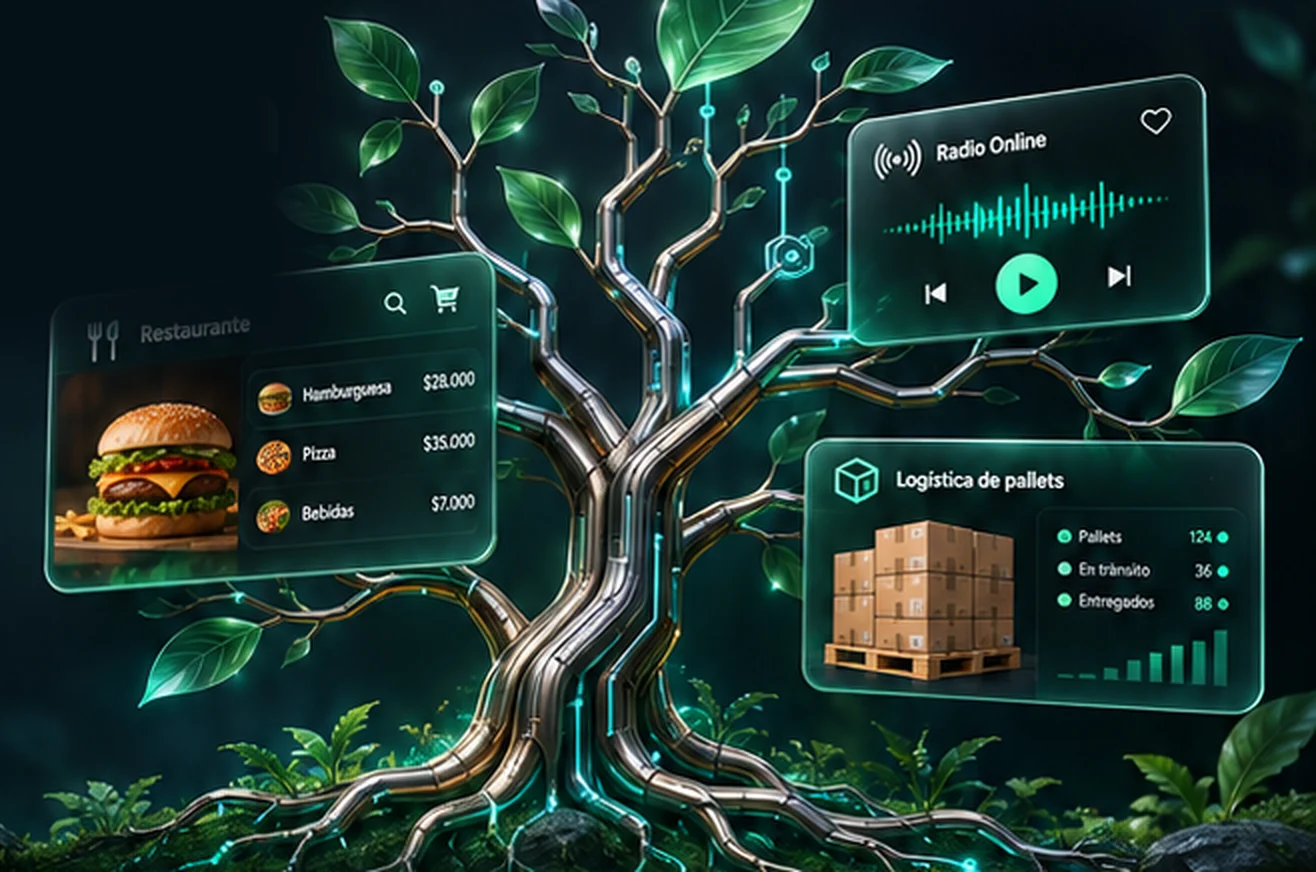
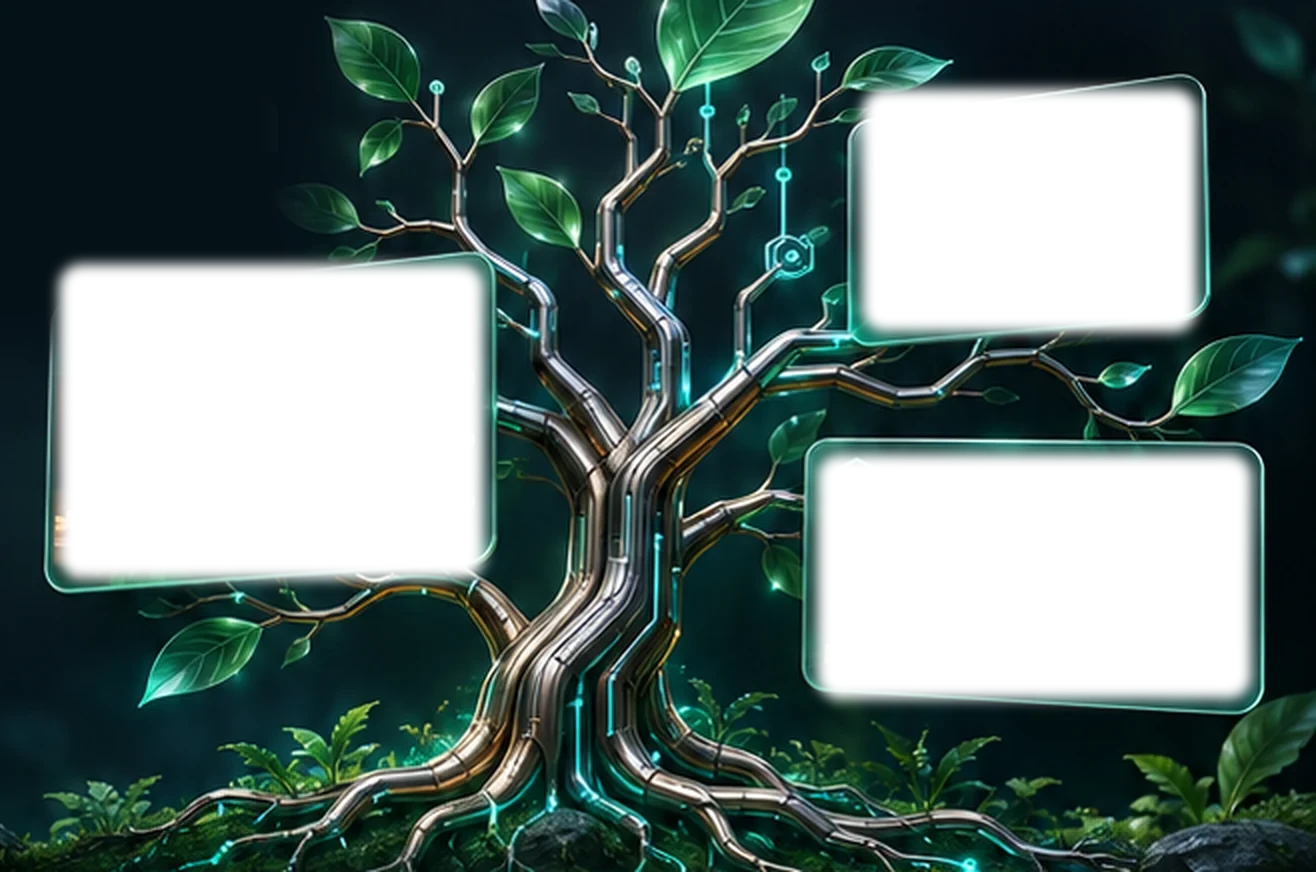
feat(home): 3D floating footer sphere, clickable footer links and animated hero cards

diff --git a/src/components/home/Home.module.css b/src/components/home/Home.module.css
@@ -1,8 +1,4 @@
 .hero { position: relative; padding-top: 90px; overflow: clip; }
-.heroStage { position: relative; min-height: 650px; display: flex; flex-direction: column; justify-content: space-between; isolation: isolate; }
-.heroArt { position: absolute; z-index: -1; width: 78%; height: auto; right: -60px; top: -45px; mask-image: radial-gradient(ellipse 65% 65% at 57% 50%, #000 50%, transparent 100%); }
-.heroCopy { position: relative; max-width: 510px; padding-top: 35px; }
-.heroCopy h1 { color: #fff; font-size: clamp(2.7rem, 5.2vw, 4.8rem); line-height: 1.02; letter-spacing: -.035em; font-weight: 750; }
 .heroCopy p { max-width: 350px; font-size: 1.05rem; line-height: 1.45; color: #d3e4de; margin-top: 24px; }
 .heroActions { display: flex; flex-direction: column; align-items: flex-start; gap: 12px; margin-top: 25px; }
 .explore { display: flex; align-items: center; gap: 48px; padding: 35px 0 30px; }
@@ -33,18 +29,14 @@
 .laptopBase { display: block; height: 10px; width: 116%; margin-left: -8%; border-radius: 2px 2px 50% 50%; background: linear-gradient(#94aaa8, #203e3b); box-shadow: 0 10px 16px #0009; }
 .closing { overflow: clip; position: relative; }
 .closingInner { position: relative; min-height: 590px; padding-top: 55px; isolation: isolate; }
-.closing h2 { position: relative; z-index: 2; font-size: clamp(2.5rem, 5vw, 4.6rem); font-weight: 750; letter-spacing: -.035em; line-height: 1.02; max-width: 650px; color: #fff; }
-.roots { position: absolute; z-index: -1; right: -70px; top: -25px; height: 650px; width: auto; mask-image: radial-gradient(ellipse 70% 65% at 55% 50%, #000 45%, transparent); }
-.path { position: absolute; left: 4%; width: 62%; height: 180px; top: 230px; filter: drop-shadow(0 0 8px #3ef0a8); }
-.contactPath { position: absolute; top: 300px; left: 16%; width: 43%; display: flex; justify-content: space-between; transform: rotate(-12deg); gap: 16px; }
+.closing h2 { position: relative; z-index: 2; pointer-events: none; font-size: clamp(2.5rem, 5vw, 4.6rem); font-weight: 750; letter-spacing: -.035em; line-height: 1.02; max-width: 650px; color: #fff; }
+.path { position: absolute; left: 4%; width: 68%; height: 180px; top: 230px; filter: drop-shadow(0 0 8px #3ef0a8); }
+.contactPath { position: absolute; z-index: 4; top: 300px; left: 16%; width: 43%; display: flex; justify-content: space-between; transform: rotate(-12deg); gap: 16px; }
 .contactPath a { display: inline-flex; gap: 8px; align-items: center; color: #fff; text-decoration: none; }
 .contactPath a:nth-child(2) { translate: 0 -22px; }
 .contactPath a:nth-child(3) { translate: 0 -36px; }
-.talkCircle { position: absolute; top: 168px; right: 6%; width: 230px; aspect-ratio: 1; display: flex; flex-direction: column; justify-content: center; align-items: center; gap: 12px; border: 2px solid #c9ffe9; border-radius: 50%; background: radial-gradient(circle at 40% 40%, #073d2e 20%, #00352b 55%, #21e9b3 100%); box-shadow: 0 0 35px #3ef0a899, inset 0 0 35px #3ef0a899; color: #fff; text-decoration: none; z-index: 3; }
-.talkCircle span { display: flex; align-items: center; font-size: 1.7rem; font-weight: 600; }
 .outline { position: absolute; bottom: 0; left: 2%; color: transparent; -webkit-text-stroke: 1px #6effbe88; font-size: clamp(5rem, 16vw, 14rem); font-weight: 650; line-height: 1; z-index: -1; }
-@media(max-width: 1060px) { .heroStage { min-height: 610px; } .heroArt { right: -100px; top: 10px; width: 90%; opacity: .7; } .heroCopy { max-width: 460px; } }
-@media(max-width: 760px) { .hero { padding-top: 95px; } .heroStage { min-height: 0; } .heroArt { position: relative; order: 2; top: auto; right: auto; width: 115%; margin: -20px -8% -25px; opacity: 1; } .heroCopy { max-width: 100%; padding-top: 10px; } .heroCopy h1 { max-width: 480px; } .heroCopy p { max-width: 450px; } .explore { order: 3; flex-direction: column; align-items: flex-start; gap: 14px; } .tabs { flex-wrap: wrap; border-radius: 22px; } .tabs button { padding: 7px 11px; } .stats { padding: 18px 8px; } .stats li { padding: 0 3vw; } .stats a { flex-direction: column; gap: 6px; font-size: .7rem; } .stats strong { font-size: 2rem; } .demoLayout { grid-template-columns: 1fr; gap: 24px; } .projects { grid-template-columns: 1fr; } .closingInner { min-height: 670px; } .closing h2 { font-size: 2.8rem; } .roots { top: 160px; right: -100px; height: 520px; } .talkCircle { top: 320px; right: 12%; width: 190px; } .contactPath { top: 260px; left: 5%; width: 85%; transform: none; flex-wrap: wrap; } .contactPath a:nth-child(n) { translate: none; font-size: .85rem; } .path { top: 260px; } .outline { font-size: 22vw; bottom: 35px; } }
+@media(max-width: 760px) { .hero { padding-top: 95px; } .heroCopy p { max-width: 450px; } .explore { flex-direction: column; align-items: flex-start; gap: 14px; } .tabs { flex-wrap: wrap; border-radius: 22px; } .tabs button { padding: 7px 11px; } .stats { padding: 18px 8px; } .stats li { padding: 0 3vw; } .stats a { flex-direction: column; gap: 6px; font-size: .7rem; } .stats strong { font-size: 2rem; } .demoLayout { grid-template-columns: 1fr; gap: 24px; } .projects { grid-template-columns: 1fr; } .closingInner { min-height: 670px; } .closing h2 { font-size: 2.8rem; } .contactPath { top: 260px; left: 5%; width: 85%; transform: none; flex-wrap: wrap; } .contactPath a:nth-child(n) { translate: none; font-size: .85rem; } .path { top: 260px; } .outline { font-size: 22vw; bottom: 35px; } }
 @media(prefers-reduced-motion: reduce) { .laptop { transform: none; } }
 
 .footerDetails {
@@ -68,7 +60,103 @@
 .footerLegal a { text-decoration: underline; }
 .footerLegal span { color: var(--primary-green); }
 @media(max-width:760px) { .footerDetails { grid-template-columns: minmax(0, 1fr); padding-bottom: 96px; } }
-/* The artwork already draws the luminous circle; this transparent link makes that single circle interactive. */
-.talkCircle { top: 130px; right: 1%; width: 310px; background: transparent; border: 0; box-shadow: none; }
-.talkCircle > * { opacity: 0; }
-@media(max-width:760px) { .talkCircle { top: 300px; right: -5%; width: 250px; } }
+
+/* Closing sphere: roots art around a CSS sphere, positioned in % of the art so both scale together. */
+.sphereStage { position: absolute; z-index: 3; right: -30px; top: 0; width: min(430px, 36%); aspect-ratio: 566 / 740; }
+.roots { position: absolute; inset: 0; width: 100%; height: 100%; z-index: -1; pointer-events: none; mask-image: radial-gradient(ellipse 50% 50% at 50% 50%, #000 52%, transparent 100%); }
+.sphere {
+  position: absolute; left: 8.2%; top: 19.3%; width: 75%; aspect-ratio: 1;
+  display: flex; flex-direction: column; align-items: center; justify-content: center; gap: 10px;
+  border-radius: 50%; color: #fff; text-decoration: none; isolation: isolate;
+  background:
+    radial-gradient(circle at 33% 27%, rgba(255, 255, 255, .5) 0, rgba(210, 255, 238, .16) 9%, transparent 24%),
+    radial-gradient(circle at 50% 118%, rgba(98, 255, 208, .6), transparent 52%),
+    radial-gradient(circle at 42% 36%, #127a5c 0%, #07412f 42%, #03241b 72%, #01130e 100%);
+  box-shadow:
+    inset -22px -30px 46px rgba(0, 0, 0, .6), inset 16px 20px 34px rgba(150, 255, 220, .22),
+    inset 0 0 0 2px rgba(205, 255, 236, .6), 0 0 34px rgba(62, 240, 168, .6), 0 0 110px rgba(62, 240, 168, .28);
+  transition: scale 300ms ease, box-shadow 300ms ease;
+  animation: sphereFloat 6s ease-in-out infinite;
+}
+/* A slow sheen sweeping over the surface reads as a turning glass ball. */
+.sphere::before { content: ''; position: absolute; inset: 5%; z-index: -1; border-radius: 50%; background: conic-gradient(from 0deg, transparent 0 62%, rgba(180, 255, 228, .2) 72%, transparent 82%); animation: sphereSheen 9s linear infinite; }
+.sphere::after { content: ''; position: absolute; inset: -3px; z-index: -2; border-radius: 50%; border: 1px solid rgba(160, 255, 222, .35); filter: blur(1px); }
+.sphere > svg { filter: drop-shadow(0 2px 4px rgba(0, 0, 0, .55)); }
+.sphere span { display: flex; align-items: center; gap: 6px; font-size: clamp(1.4rem, 2.4vw, 2.2rem); font-weight: 650; letter-spacing: -.01em; text-shadow: 0 2px 6px rgba(0, 0, 0, .55); }
+.sphere:hover, .sphere:focus-visible { scale: 1.04; box-shadow: inset -22px -30px 46px rgba(0, 0, 0, .55), inset 16px 20px 34px rgba(150, 255, 220, .3), inset 0 0 0 2px #dfffee, 0 0 48px rgba(62, 240, 168, .8), 0 0 140px rgba(62, 240, 168, .4); }
+.sphere:focus-visible { outline: 3px solid var(--primary-green); outline-offset: 6px; }
+.sphereShadow { position: absolute; left: 22%; width: 47%; top: 78%; height: 7%; border-radius: 50%; background: radial-gradient(ellipse, rgba(0, 0, 0, .65), transparent 70%); animation: sphereShadow 6s ease-in-out infinite; pointer-events: none; }
+@keyframes sphereFloat { 0%, 100% { translate: 0 0; } 50% { translate: 0 -14px; } }
+@keyframes sphereShadow { 0%, 100% { opacity: .9; scale: 1; } 50% { opacity: .55; scale: .86; } }
+@keyframes sphereSheen { to { rotate: 1turn; } }
+@media(max-width:760px) {
+  .closingInner { min-height: 0; display: flex; flex-direction: column; padding-bottom: 20px; }
+  .path { display: none; }
+  .contactPath { position: relative; top: auto; left: auto; width: 100%; transform: none; justify-content: flex-start; flex-wrap: wrap; gap: 14px 22px; margin-top: 24px; }
+  .sphereStage { position: relative; right: auto; top: auto; width: min(100%, 360px); margin: 6px auto 0; }
+  .outline { position: relative; bottom: auto; left: auto; margin-top: -40px; }
+}
+
+/* Hero: copy on the left, tree scene on the right; they never share space (S23). */
+.heroStage { position: relative; display: grid; grid-template-columns: minmax(0, .8fr) minmax(0, 1.2fr); grid-template-rows: auto auto; column-gap: 28px; isolation: isolate; }
+.heroCopy { position: relative; z-index: 2; grid-column: 1; grid-row: 1; max-width: 470px; padding-top: 35px; }
+.heroCopy h1 { color: #fff; font-size: clamp(2.6rem, 4.4vw, 4.3rem); line-height: 1.02; letter-spacing: -.035em; font-weight: 750; }
+.explore { grid-column: 1 / -1; grid-row: 2; }
+.heroScene { --px: 0; --py: 0; position: relative; grid-column: 2; grid-row: 1; align-self: start; width: 100%; margin: -30px 0 0; container-type: inline-size; perspective: 1300px; }
+.heroArt { display: block; width: 100%; height: auto; mask-image: radial-gradient(ellipse 72% 70% at 52% 50%, #000 58%, transparent 100%); transform: translate(calc(var(--px) * -6px), calc(var(--py) * -4px)); transition: transform 500ms cubic-bezier(.2, .8, .2, 1); }
+.heroCards { position: absolute; inset: 0; transform-style: preserve-3d; pointer-events: none; }
+.heroCard {
+  --ry: 0deg; --rx: 0deg; --z: 40px;
+  position: absolute; display: flex; flex-direction: column; overflow: hidden;
+  border: 1px solid rgba(160, 255, 222, .5); border-radius: 2.2cqw;
+  background: linear-gradient(150deg, rgba(20, 70, 56, .96), rgba(4, 26, 20, .96));
+  box-shadow: inset 0 1px 0 rgba(220, 255, 240, .35), 0 0 2.4cqw rgba(62, 240, 168, .35), 0 3cqw 5cqw -1.5cqw rgba(0, 0, 0, .8);
+  color: #eafff6; font-size: 1.45cqw;
+  transform: rotateY(calc(var(--ry) + var(--px) * 7deg)) rotateX(calc(var(--rx) - var(--py) * 6deg)) translateZ(var(--z));
+  transition: transform 500ms cubic-bezier(.2, .8, .2, 1);
+  animation: cardFloat 7s ease-in-out infinite;
+}
+/* Each card sits slightly larger than the opening left in the tree art. */
+.cardRestaurant { --ry: 14deg; --rx: 3deg; --z: 60px; left: 3%; top: 28%; width: 35%; height: 40%; animation-delay: -1.2s; }
+.cardRadio { --ry: -12deg; --rx: 4deg; --z: 45px; left: 64%; top: 8.2%; width: 28.2%; height: 31.8%; animation-duration: 6.2s; animation-delay: -3s; }
+.cardLogistics { --ry: -9deg; --rx: -2deg; --z: 70px; left: 60.6%; top: 50%; width: 35.8%; height: 32%; animation-duration: 7.8s; animation-delay: -5s; }
+.cardTop { display: flex; align-items: center; gap: 1cqw; padding: 1.4cqw 1.6cqw .8cqw; font-size: 1.5cqw; }
+.cardTop svg { width: 2.1cqw; height: 2.1cqw; flex-shrink: 0; color: #9fffdb; }
+.cardTop strong { font-weight: 600; }
+.cardIcons { display: flex; gap: 1.1cqw; margin-left: auto; }
+.restaurantBody { flex: 1; display: grid; grid-template-columns: 42% 1fr; gap: 1cqw; padding: 0 1.4cqw 1.4cqw; min-height: 0; }
+.burger { width: 100%; height: 100%; object-fit: cover; border-radius: 1.1cqw; }
+.menu { list-style: none; display: grid; align-content: center; gap: .7cqw; margin: 0; padding: 0; }
+.menu li { display: grid; grid-template-columns: 2.6cqw 1fr auto; align-items: center; gap: .8cqw; padding: .6cqw .8cqw; border-radius: .9cqw; background: rgba(255, 255, 255, .05); font-size: 1.15cqw; }
+.menu img { width: 2.6cqw; height: 2.6cqw; border-radius: 50%; object-fit: cover; }
+.menu b { font-weight: 600; }
+.wave { flex: 1; display: flex; align-items: center; justify-content: center; gap: .45cqw; padding: 0 2cqw; min-height: 0; }
+.wave i { width: .45cqw; border-radius: 1cqw; background: linear-gradient(#9dffe0, #2ee6c5); box-shadow: 0 0 .8cqw rgba(62, 240, 168, .7); max-height: 70%; transform-origin: center; animation: waveBeat 1.2s ease-in-out infinite alternate; }
+.player { display: flex; align-items: center; justify-content: center; gap: 4.2cqw; padding: .6cqw 0 1.6cqw; }
+.player > svg { width: 2.2cqw; height: 2.2cqw; fill: #fff; }
+.play { display: grid; place-items: center; width: 4.6cqw; height: 4.6cqw; border-radius: 50%; background: linear-gradient(135deg, #7dffd0, #22d8a6); box-shadow: 0 0 1.6cqw rgba(62, 240, 168, .8); }
+.play svg { width: 2cqw; height: 2cqw; fill: #04241b; stroke: #04241b; translate: .2cqw 0; }
+.logisticsBody { flex: 1; display: grid; grid-template-columns: 45% 1fr; gap: 1.2cqw; padding: 0 1.6cqw 1.4cqw; min-height: 0; }
+.pallets { width: 100%; height: 100%; object-fit: cover; border-radius: 1cqw; }
+.stock { display: flex; flex-direction: column; justify-content: space-between; min-width: 0; padding: 1cqw; border-radius: 1cqw; background: rgba(255, 255, 255, .05); }
+.stock ul { list-style: none; display: grid; gap: .6cqw; margin: 0; padding: 0; font-size: 1.1cqw; }
+.stock li { display: flex; align-items: center; gap: .7cqw; }
+.stock li i { width: .8cqw; height: .8cqw; border-radius: 50%; background: #3ef0a8; box-shadow: 0 0 .6cqw #3ef0a8; }
+.stock li b { margin-left: auto; font-weight: 600; }
+.bars { display: flex; align-items: flex-end; gap: .6cqw; height: 5cqw; }
+.bars i { flex: 1; border-radius: .3cqw .3cqw 0 0; background: linear-gradient(#5cffc5, #12a77c); transform-origin: bottom; animation: barGrow 1.4s cubic-bezier(.2, .8, .2, 1) both; }
+.bars i:nth-child(2) { animation-delay: .1s; } .bars i:nth-child(3) { animation-delay: .2s; } .bars i:nth-child(4) { animation-delay: .3s; } .bars i:nth-child(5) { animation-delay: .4s; } .bars i:nth-child(6) { animation-delay: .5s; } .bars i:nth-child(7) { animation-delay: .6s; }
+@keyframes cardFloat { 0%, 100% { translate: 0 0; } 50% { translate: 0 -1.1cqw; } }
+@keyframes waveBeat { from { scale: 1 .55; } to { scale: 1 1.05; } }
+@keyframes barGrow { from { scale: 1 0; } to { scale: 1 1; } }
+@media (max-width: 1060px) {
+  .heroStage { grid-template-columns: minmax(0, 1fr); grid-template-rows: auto auto auto; min-height: 0; }
+  .heroCopy { max-width: 560px; }
+  .heroScene { grid-column: 1; grid-row: 2; width: calc(100% + 40px); margin: 10px -20px 0; }
+  .explore { grid-row: 3; }
+}
+@media (max-width: 899px), (pointer: coarse), (prefers-reduced-motion: reduce) {
+  .sphere, .sphere::before, .sphereShadow, .heroCard, .wave i { animation: none; }
+  .heroCard, .heroArt { transition: none; }
+}
+@media (prefers-reduced-motion: reduce) { .bars i { animation: none; } }

diff --git a/src/components/home/HeroScene.tsx b/src/components/home/HeroScene.tsx
@@ -1,0 +1,84 @@
+'use client';
+
+import { useEffect, useRef } from 'react';
+import Image from 'next/image';
+import { UtensilsCrossed, Search, ShoppingCart, Radio, Heart, SkipBack, SkipForward, Play, Box } from 'lucide-react';
+import styles from './Home.module.css';
+
+const MENU = [
+  { name: 'Hamburguesa', price: '$28.000', image: '/images/mockup/hero-food-1.webp' },
+  { name: 'Pizza', price: '$35.000', image: '/images/mockup/hero-food-2.webp' },
+  { name: 'Bebidas', price: '$7.000', image: '/images/mockup/hero-food-3.webp' },
+];
+const PALLETS = [['Pallets', '124'], ['En tránsito', '36'], ['Entregados', '88']];
+// Fixed heights keep server and client markup identical.
+const WAVE = [18, 34, 52, 30, 70, 44, 88, 60, 96, 72, 50, 84, 64, 40, 76, 56, 30, 48, 22, 36, 16, 28, 12, 20];
+const BARS = [22, 30, 38, 52, 64, 78, 92];
+
+/** The mockup tree with its three demo cards as real HTML, so they stay sharp and move in depth. */
+export function HeroScene() {
+  const scene = useRef<HTMLDivElement>(null);
+
+  useEffect(() => {
+    const node = scene.current;
+    if (!node) return;
+    const allowed = window.matchMedia('(hover: hover) and (pointer: fine) and (prefers-reduced-motion: no-preference) and (min-width: 900px)');
+    const hero = node.closest('section') ?? node;
+    let frame = 0;
+    const onMove = (event: PointerEvent) => {
+      if (!allowed.matches || event.pointerType !== 'mouse') return;
+      cancelAnimationFrame(frame);
+      frame = requestAnimationFrame(() => {
+        const box = node.getBoundingClientRect();
+        const x = Math.max(-1, Math.min(1, ((event.clientX - box.left) / box.width - 0.5) * 2));
+        const y = Math.max(-1, Math.min(1, ((event.clientY - box.top) / box.height - 0.5) * 2));
+        node.style.setProperty('--px', x.toFixed(3));
+        node.style.setProperty('--py', y.toFixed(3));
+      });
+    };
+    const reset = () => {
+      cancelAnimationFrame(frame);
+      node.style.setProperty('--px', '0');
+      node.style.setProperty('--py', '0');
+    };
+    hero.addEventListener('pointermove', onMove as EventListener, { passive: true });
+    hero.addEventListener('pointerleave', reset);
+    return () => {
+      cancelAnimationFrame(frame);
+      hero.removeEventListener('pointermove', onMove as EventListener);
+      hero.removeEventListener('pointerleave', reset);
+    };
+  }, []);
+
+  return (
+    <div ref={scene} className={styles.heroScene} data-hero-scene="">
+      <Image src="/images/mockup/home-hero.webp" alt="" aria-hidden="true" width={1316} height={872} priority className={styles.heroArt} />
+      <div className={styles.heroCards} aria-hidden="true">
+        <div className={`${styles.heroCard} ${styles.cardRestaurant}`} data-hero-card="restaurante">
+          <div className={styles.cardTop}><UtensilsCrossed /><strong>Restaurante</strong><span className={styles.cardIcons}><Search /><ShoppingCart /></span></div>
+          <div className={styles.restaurantBody}>
+            <Image src="/images/mockup/hero-burger.webp" alt="" width={190} height={185} className={styles.burger} />
+            <ul className={styles.menu}>
+              {MENU.map(item => <li key={item.name}><Image src={item.image} alt="" width={40} height={38} /><span>{item.name}</span><b>{item.price}</b></li>)}
+            </ul>
+          </div>
+        </div>
+        <div className={`${styles.heroCard} ${styles.cardRadio}`} data-hero-card="radio">
+          <div className={styles.cardTop}><Radio /><strong>Radio Online</strong><span className={styles.cardIcons}><Heart /></span></div>
+          <div className={styles.wave}>{WAVE.map((height, index) => <i key={index} style={{ height: `${height}%`, animationDelay: `${-index * 90}ms` }} />)}</div>
+          <div className={styles.player}><SkipBack /><span className={styles.play}><Play /></span><SkipForward /></div>
+        </div>
+        <div className={`${styles.heroCard} ${styles.cardLogistics}`} data-hero-card="logistica">
+          <div className={styles.cardTop}><Box /><strong>Logística de pallets</strong></div>
+          <div className={styles.logisticsBody}>
+            <Image src="/images/mockup/hero-pallets.webp" alt="" width={205} height={178} className={styles.pallets} />
+            <div className={styles.stock}>
+              <ul>{PALLETS.map(([label, value]) => <li key={label}><i />{label}<b>{value}</b></li>)}</ul>
+              <div className={styles.bars}>{BARS.map((height, index) => <i key={index} style={{ height: `${height}%` }} />)}</div>
+            </div>
+          </div>
+        </div>
+      </div>
+    </div>
+  );
+}

diff --git a/src/components/home/HomeClosing.tsx b/src/components/home/HomeClosing.tsx
@@ -15,7 +15,6 @@ export function HomeClosing() {
     <footer className={styles.closing} aria-labelledby="closing-title">
       <div className={`container ${styles.closingInner}`}>
         <h2 id="closing-title">Lo que sigue,<br />lo construimos<br /><span className="text-gradient">contigo.</span></h2>
-        <Image src="/images/mockup/home-roots.webp" alt="" aria-hidden="true" width={566} height={740} className={styles.roots} />
         <svg className={styles.path} viewBox="0 0 1000 220" preserveAspectRatio="none" aria-hidden="true">
           <path d="M0 200 C250 200 500 20 780 90 S920 140 1000 20" fill="none" stroke="#62ffd0" strokeWidth="2" />
           <g fill="#b3ffe3"><circle cx="220" cy="154" r="5" /><circle cx="430" cy="94" r="5" /><circle cx="630" cy="72" r="5" /></g>
@@ -25,7 +24,15 @@ export function HomeClosing() {
           <a href={`mailto:${CONTACT_INFO.email}`}><Mail />Correo</a>
           <Link href="/proyectos"><Layers />Proyectos</Link>
         </nav>
-        <Link href="/contacto" className={styles.talkCircle}><MessageCircle size={48} /><span>Hablemos <ArrowUpRight /></span></Link>
+        {/* Roots art has the circle cut out; the sphere is drawn in CSS so it stays sharp at any size. */}
+        <div className={styles.sphereStage}>
+          <Image src="/images/mockup/closing-roots.webp" alt="" aria-hidden="true" width={566} height={740} className={styles.roots} />
+          <span className={styles.sphereShadow} aria-hidden="true" />
+          <Link href="/contacto" className={styles.sphere} data-talk-sphere="">
+            <MessageCircle size={52} strokeWidth={1.8} aria-hidden="true" />
+            <span>Hablemos <ArrowUpRight size={30} aria-hidden="true" /></span>
+          </Link>
+        </div>
         <span className={styles.outline} aria-hidden="true">TreesSide</span>
       </div>
       <div className={`container ${styles.footerDetails}`}>

diff --git a/src/components/Hero.tsx b/src/components/Hero.tsx
@@ -1,19 +1,19 @@
-import Image from 'next/image';
 import Link from 'next/link';
 import { ArrowRight } from 'lucide-react';
 import { FEATURED_PROJECTS, TECHNOLOGIES } from '@/data/content';
 import { TEAM_MEMBERS } from '@/data/team';
+import { HeroScene } from './home/HeroScene';
 import styles from './home/Home.module.css';
 
 export function Hero() {
   return <section id="inicio" className={styles.hero}>
     <div className={`container ${styles.heroStage}`}>
-      <Image src="/images/mockup/home-hero.webp" alt="" aria-hidden="true" width={1316} height={872} priority className={styles.heroArt} />
       <div className={styles.heroCopy}>
         <h1>Tu próxima idea merece cobrar <span className="text-gradient">vida.</span></h1>
         <p>Desarrollamos software a la medida para restaurantes, medios de streaming, logística y más, convirtiendo tus ideas en soluciones reales, funcionales y escalables.</p>
         <div className={styles.heroActions}><Link className="btn btn-primary" href="/contacto">Construyamos tu proyecto <ArrowRight size={20} /></Link><Link className="btn btn-secondary" href="#carrusel">Explorar proyectos</Link></div>
       </div>
+      <HeroScene />
       <div className={styles.explore}><span>01 / EXPLORA</span></div>
     </div>
     <ul className={styles.stats} data-home-stats="">

diff --git a/odd/tasks/rediseno-mockup.md b/odd/tasks/rediseno-mockup.md
@@ -37,6 +37,8 @@ Branch: `feat/rediseno-mockup` (after 061727f). Pre-existing uncommitted work on
 
 - S22. User (L38): "listo sigue con el contacto". Adapt /contacto to Images/mockup contacto.png: hero "Toda gran solución empieza con una conversación." with sprout-tree art, "Cuéntanos tu idea." with WhatsApp button and location, glass form "Envíanos un mensaje" (Nombre, Correo electrónico, optional "¿Qué necesitas construir?" with the real service titles plus Otro, "Cuéntanos sobre tu proyecto"), three topic cards and the shared integrated closing. Preserve real Formspree sending, honeypot, required unchecked consent with the existing legal authorization text linked to the policy, success only on real send, email/copy, phone/WhatsApp and the FAQ with its structured data. The optional need is sent as an optional Formspree field and omitted when empty.
 
+- S23. User (L41): "ahora vamos a mejorar el footer haz la imagen  mas d 3d y que no se vea borrosa como una bola flotando tambien que todos los links rapidos funcionen y en el inicio haaz que se parezca mas al b ackup porque los parrafos tapan las imageenes y hnaz las imagenesz mas 3d con movimiento". Footer (shared HomeClosing): the "Hablemos" circle becomes a crisp CSS/HTML 3D floating sphere (no upscaled raster text), the roots art keeps soft edges, and every footer link (contact path, quick links, contact, policy) is clickable and navigates on every page that uses it. Home hero: follow Images/Mockup del home.png more closely: copy column and tree art never overlap at any width; the three tree cards (Restaurante, Radio Online, Logística de pallets) become real HTML cards with 3D perspective and motion (floating, pointer parallax on fine pointers), crisp text; motion disabled for reduced motion and on phones (no endless animations on mobile). Hero copy, CTAs, stats and data unchanged.
+
 ## Tasks
 
 - T1 [S1, S3] Global theme tokens, cards, buttons, kicker, background — inline — commit: a5c90d5, 773acf1 (done)
@@ -70,6 +72,8 @@ Branch: `feat/rediseno-mockup` (after 061727f). Pre-existing uncommitted work on
 - T21 [S21,S2,S5] Team mockup with photo/summary cards and retained profiles — inline — commit: 6eb01e2 (done)
 
 - T22 [S22,S2,S5] Contact mockup with preserved sending, consent and FAQ — inline — commit: 407de33 (done)
+
+- T23 [S23,S5,S9] Crisp 3D footer sphere, clickable footer links, hero layout and 3D animated tree cards — inline — commit: pending (in progress)
 
 ## Log
 
@@ -137,3 +141,8 @@ Branch: `feat/rediseno-mockup` (after 061727f). Pre-existing uncommitted work on
 - L39 (S22 checks): /contacto follows the mockup: hero with sprout art cropped from the supplied image (edges faded), "Cuéntanos tu idea." with WhatsApp call, location, email with copy and phone; glass form with labelled Nombre, Correo electrónico, optional ¿Qué necesitas construir? (SERVICES titles + Otro) and Cuéntanos sobre tu proyecto; three topic cards; preserved FAQ with JSON-LD; shared HomeClosing. Sending logic, honeypot, required unchecked consent with the existing legal authorization text, success only on real send and kept form data are unchanged; src/lib/contact.ts adds the optional necesidad field only when chosen. RED: four new rules before source change. Final: build exit0, 185/185 (incl. existing Formspree/consent tests). Browser 390/1440: empty submit blocked natively with focus on Nombre, Tab order skips honeypot, consent still required, submit without a configured form ID shows the not-configured alert, keeps entered data, shows no false success and makes no Formspree request; topics revealed; FAQ opens with Enter; single footer; no overflow. All-route mobile 360/390 PASS on the build before the CSS-only mask tweak (mask does not affect layout); screenshots ../_scratch_portfolio_tools/contact-browser/ reviewed. Native assessment unavailable; self-verification.
 
 - L40 (S22 closure): 407de33 holds the S22 work unit; /contacto opened on localhost:3000. Risk: none (page composition plus one optional payload field; existing sending/consent behavior and other pages unchanged).
+
+- L41 (user, verbatim): "ahora vamos a mejorar el footer haz la imagen  mas d 3d y que no se vea borrosa como una bola flotando tambien que todos los links rapidos funcionen y en el inicio haaz que se parezca mas al b ackup porque los parrafos tapan las imageenes y hnaz las imagenesz mas 3d con movimiento"
+- L42 (reproduction): browser probe at 1440 on /, /servicios, /contacto: footer "Proyectos" contact-path link is covered by the closing H2 (elementFromPoint hits H2). Footer sphere is part of home-roots.webp (566x740 upscale) with baked text, link is a transparent overlay; hard rectangular art edges; on 390 the path links overlap the sphere. Hero at 1440: h1 "vida." and the paragraph overlap the baked Restaurante card because the 78%-wide art extends under the copy. Cards are baked into home-hero.webp (1316x872), so they cannot move. All quick-link routes return 200.
+
+- L43 (S23 checks): footer sphere is a CSS/HTML link (radial-gradient body, specular highlight, inset shading, rim glow, rotating sheen, floating ground shadow; crisp vector icons and text) over closing-roots.webp (baked circle cut out, edges faded plus radial mask). Closing H2 no longer captures clicks; contact path above it; on phones the path links sit above the sphere. Hero: copy and scene are separate grid columns (stacked <=1060px); home-hero.webp keeps the tree with the three card areas opened; the cards are aria-hidden HTML with perspective, translateZ depth, floating, pointer parallax (fine pointer, >=900px), waveform and growing bars; burger/pallet/food thumbnails cropped from the original art. Motion off for reduced motion and on phones. RED: 3 rules before source change. Final: build exit0, 188/188; browser: no copy/card overlap and cards fully on screen at 390/1100/1280/1440/1920, cards float and tilt with the pointer, sphere animated with visible label; every footer link hit-testable on 7 pages at 390/1440 and every internal footer link clicked from / lands on its path; all-route mobile 360/390 PASS (no endless animations). Screenshots ../_scratch_portfolio_tools/home-3d/ reviewed; fixes from review: card clipped at 1280, gap before EXPLORA, rectangular roots edge. Validator harness bug (CSS-module hashed keyframe names) fixed in the validator, not the product. Native assessment unavailable.
